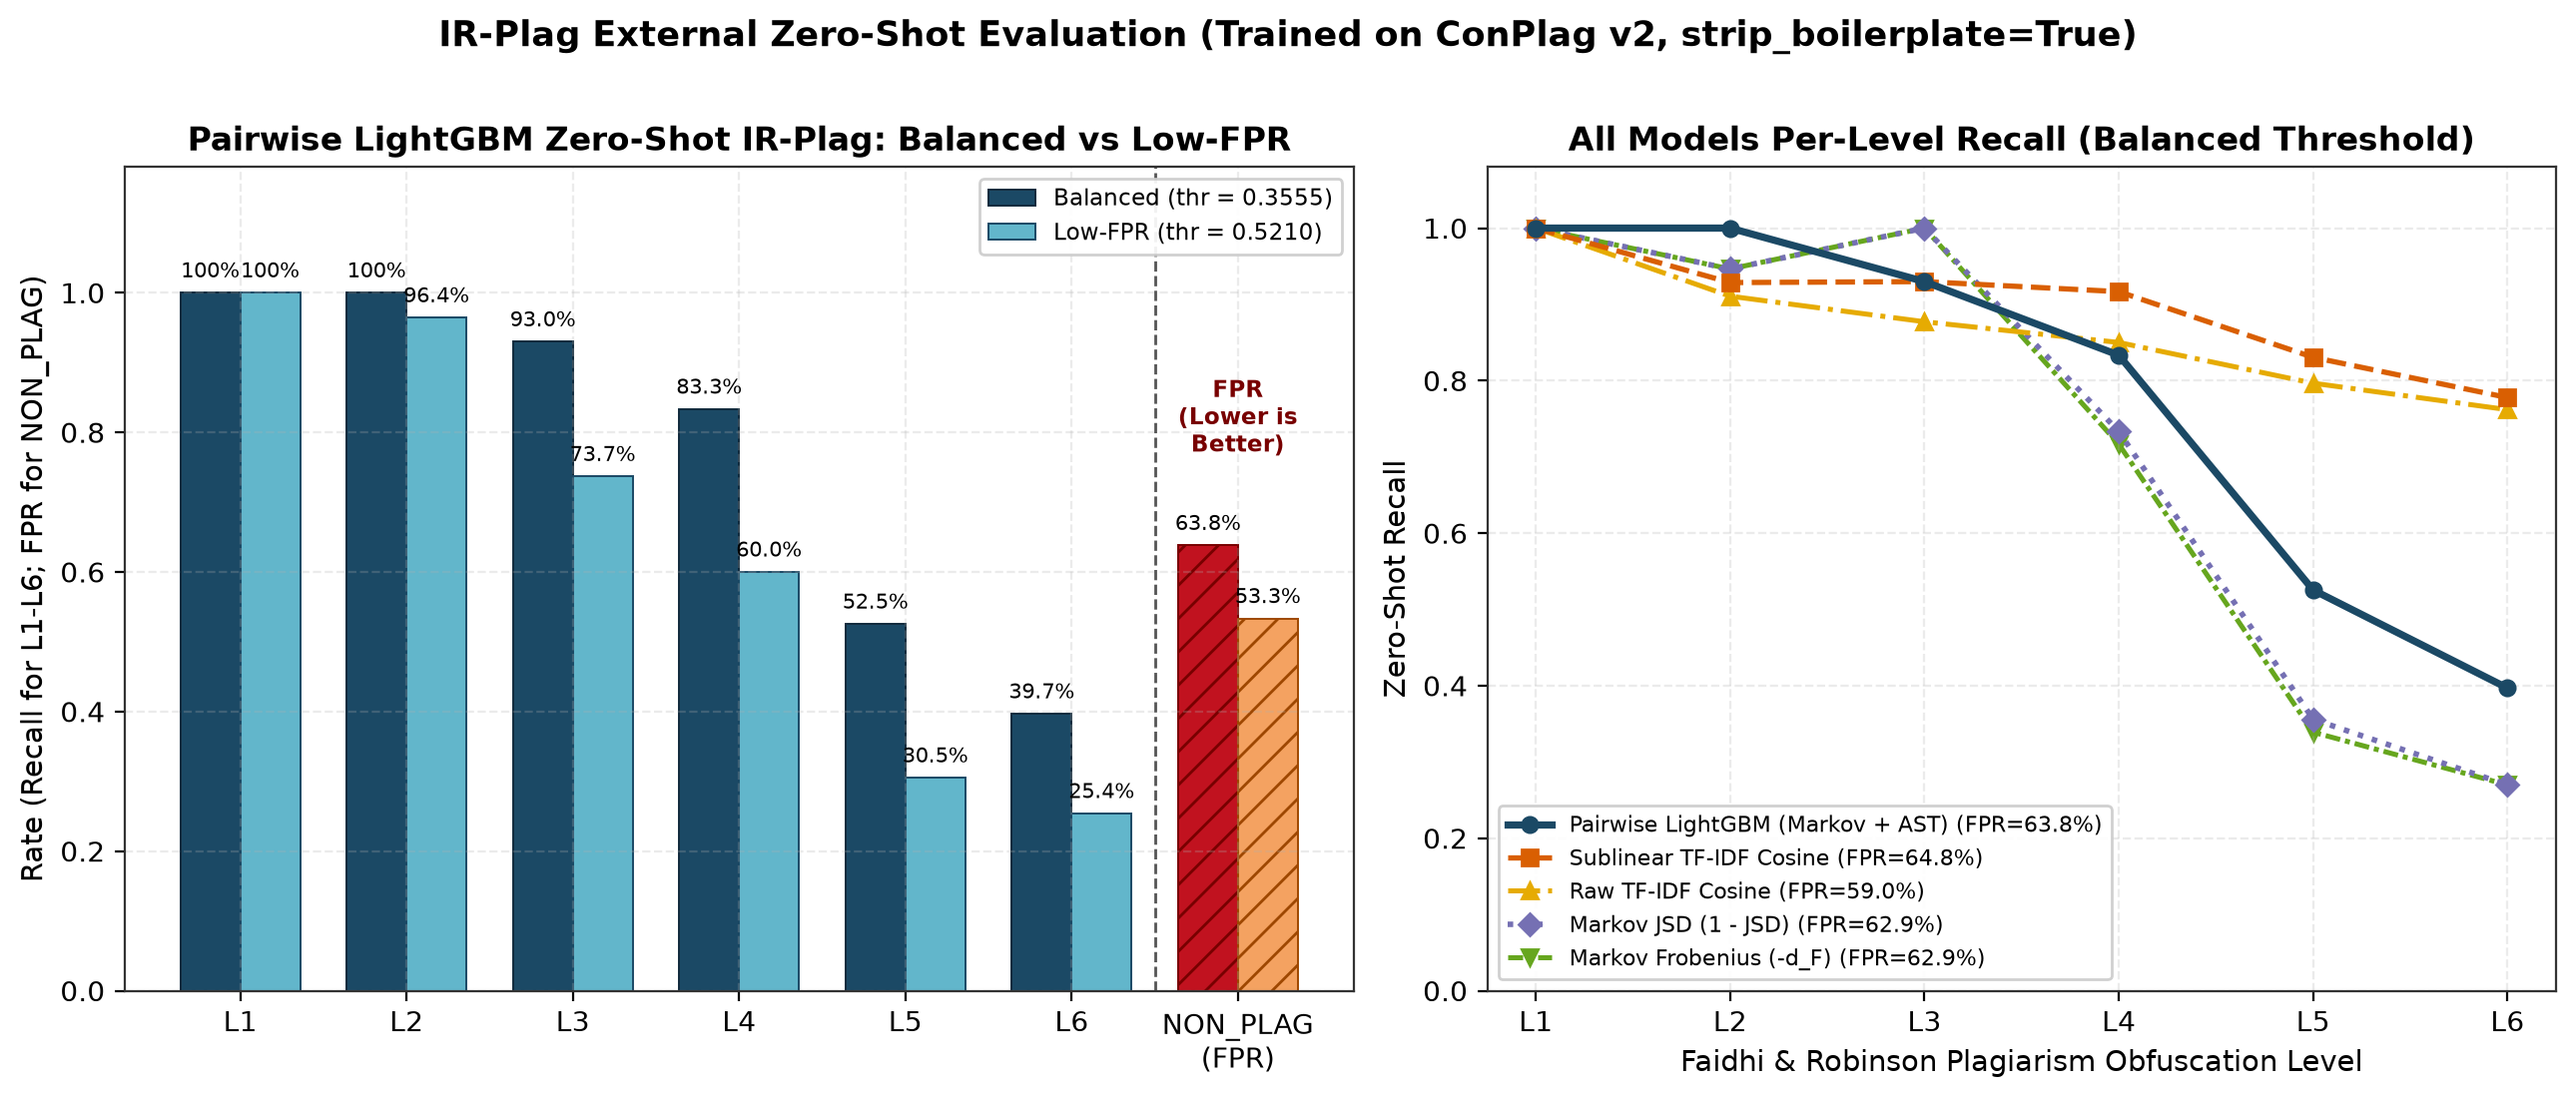
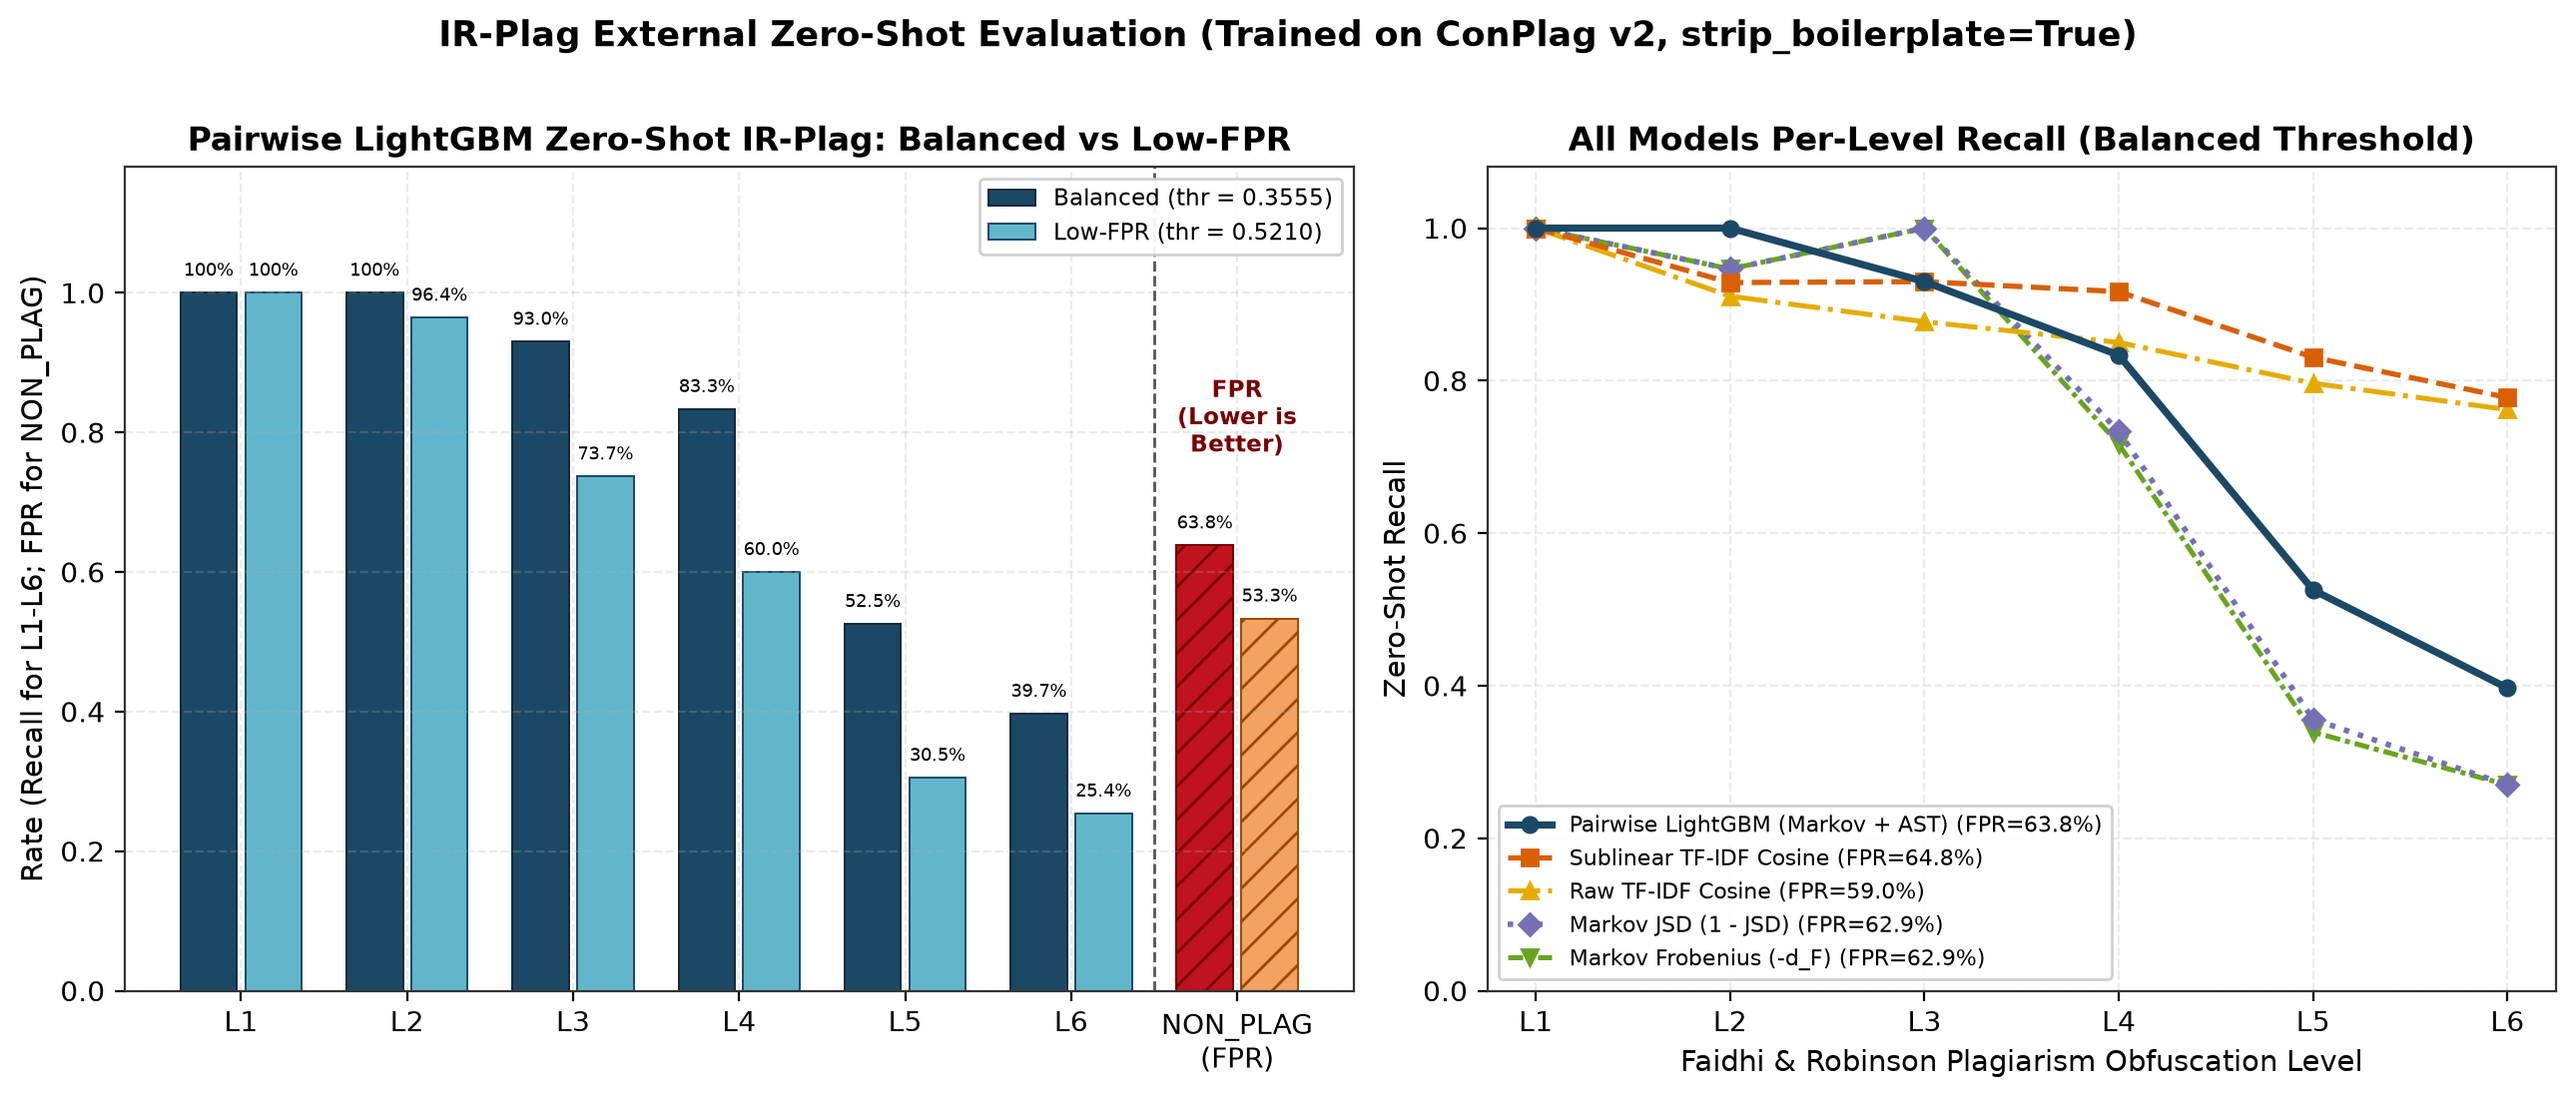
docs: add model scoreboard chart, fix IR Plag labels, and rewrite evaluation report

diff --git a/scripts/generate_plots.py b/scripts/generate_plots.py
@@ -263,13 +263,14 @@ def plot_ir_plag_levels(data: dict[str, Any], out_path: Path) -> None:
     low_series = low_vals + [low_fpr]
 
     x = np.arange(len(categories))
-    width = 0.36
+    width = 0.34
+    offset = width / 2 + 0.025
 
     bal_thr = lgbm["at_threshold"]["threshold"]
     low_thr = lgbm["at_threshold_low_fpr"]["threshold"]
 
     bars_bal = ax_left.bar(
-        x - width / 2,
+        x - offset,
         bal_series,
         width,
         label=f"Balanced (thr = {bal_thr:.4f})",
@@ -278,7 +279,7 @@ def plot_ir_plag_levels(data: dict[str, Any], out_path: Path) -> None:
         linewidth=0.7,
     )
     bars_low = ax_left.bar(
-        x + width / 2,
+        x + offset,
         low_series,
         width,
         label=f"Low-FPR (thr = {low_thr:.4f})",
@@ -312,11 +313,11 @@ def plot_ir_plag_levels(data: dict[str, Any], out_path: Path) -> None:
         label_txt = "100%" if h >= 0.9995 else f"{h * 100:.1f}%"
         ax_left.text(
             bar.get_x() + bar.get_width() / 2,
-            h + 0.015,
+            h + 0.018,
             label_txt,
             ha="center",
             va="bottom",
-            fontsize=7.4,
+            fontsize=6.6,
             rotation=0,
         )
 
@@ -559,8 +560,114 @@ def plot_confusion_matrices(data: dict[str, Any], out_path: Path) -> None:
     plt.close(fig)
 
 
+def plot_model_comparison(data: dict[str, Any], out_path: Path) -> None:
+    """Plot a ranked ConPlag v2 scoreboard comparing F1, Precision, Recall, AUC, and FPR."""
+    cv = data["conplag_v2_cv"]
+    ranked = sorted(
+        MODEL_ORDER,
+        key=lambda key: cv[key]["micro_oof"]["f1"],
+        reverse=True,
+    )
+    labels = [MODEL_META[k]["short"].replace("\n", " ") for k in ranked]
+    y = np.arange(len(ranked))
+
+    f1_vals = [cv[k]["micro_oof"]["f1"] for k in ranked]
+    prec_vals = [cv[k]["micro_oof"]["precision"] for k in ranked]
+    rec_vals = [cv[k]["micro_oof"]["recall"] for k in ranked]
+    auc_vals = [cv[k]["micro_oof"]["roc_auc"] for k in ranked]
+    fpr_vals = [cv[k]["micro_oof"]["fpr"] for k in ranked]
+
+    fig, (ax_left, ax_right) = plt.subplots(
+        1,
+        2,
+        figsize=(13.2, 5.4),
+        gridspec_kw={"width_ratios": [1.85, 1.0]},
+    )
+
+    bar_h = 0.19
+    series = [
+        ("ROC AUC", auc_vals, "#1b4965", -1.5 * bar_h),
+        ("F1 Score", f1_vals, "#2a9d8f", -0.5 * bar_h),
+        ("Precision", prec_vals, "#62b6cb", 0.5 * bar_h),
+        ("Recall", rec_vals, "#e9c46a", 1.5 * bar_h),
+    ]
+
+    for metric_name, vals, color, dy in series:
+        bars = ax_left.barh(
+            y + dy,
+            vals,
+            height=bar_h,
+            label=metric_name,
+            color=color,
+            edgecolor="#222222",
+            linewidth=0.45,
+        )
+        for bar, val in zip(bars, vals):
+            ax_left.text(
+                val + 0.012,
+                bar.get_y() + bar.get_height() / 2,
+                f"{val * 100:.1f}%",
+                va="center",
+                ha="left",
+                fontsize=7.3,
+            )
+
+    ax_left.set_yticks(y)
+    ax_left.set_yticklabels(labels, fontsize=9.5, fontweight="bold")
+    ax_left.invert_yaxis()
+    ax_left.set_xlim(0.0, 1.08)
+    ax_left.set_xlabel("Score (Higher is Better)")
+    ax_left.set_title("ConPlag v2 5-Fold CV: Detection Quality", pad=22)
+    ax_left.legend(
+        loc="lower center",
+        bbox_to_anchor=(0.5, 1.0),
+        fontsize=8.3,
+        ncol=4,
+        frameon=False,
+    )
+
+    fpr_colors = ["#2a9d8f" if v <= 0.10 else "#e76f51" for v in fpr_vals]
+    bars_fpr = ax_right.barh(
+        y,
+        fpr_vals,
+        height=0.52,
+        color=fpr_colors,
+        edgecolor="#222222",
+        linewidth=0.6,
+    )
+    for bar, val in zip(bars_fpr, fpr_vals):
+        ax_right.text(
+            val + 0.008,
+            bar.get_y() + bar.get_height() / 2,
+            f"{val * 100:.1f}%",
+            va="center",
+            ha="left",
+            fontsize=8.2,
+            fontweight="bold",
+        )
+
+    ax_right.axvline(0.05, color="#555555", linestyle="--", linewidth=1.0, label="5% Low-FPR Target")
+    ax_right.set_yticks(y)
+    ax_right.set_yticklabels([])
+    ax_right.invert_yaxis()
+    ax_right.set_xlim(0.0, 0.34)
+    ax_right.set_xlabel("False Positive Rate (Lower is Better)")
+    ax_right.set_title("False Positive Rate (F1-Optimal Point)", pad=22)
+    ax_right.legend(loc="upper right", fontsize=8.2)
+
+    fig.suptitle(
+        "ConPlag v2 Problem-Disjoint 5-Fold CV Model Scoreboard (Ranked by F1)",
+        fontsize=12.5,
+        fontweight="bold",
+        y=0.98,
+    )
+    fig.tight_layout(rect=(0.0, 0.0, 1.0, 0.94))
+    fig.savefig(out_path, dpi=DPI)
+    plt.close(fig)
+
+
 def main() -> None:
-    """Load metrics_summary.json and render all 5 evaluation figures."""
+    """Load metrics_summary.json and render all 6 evaluation figures."""
     if not METRICS_PATH.is_file():
         raise FileNotFoundError(f"Metrics file not found: {METRICS_PATH}")
 
@@ -571,6 +678,7 @@ def main() -> None:
     FIGURES_DIR.mkdir(parents=True, exist_ok=True)
 
     outputs = [
+        (FIGURES_DIR / "model_comparison.png", plot_model_comparison),
         (FIGURES_DIR / "roc_curves.png", plot_roc_curves),
         (FIGURES_DIR / "pr_curves.png", plot_pr_curves),
         (FIGURES_DIR / "ir_plag_levels.png", plot_ir_plag_levels),

diff --git a/docs/evaluation/metrics_tables.md b/docs/evaluation/metrics_tables.md
@@ -1,64 +1,103 @@
-# Evaluation Metrics Summary
+# Evaluation Results
 
-## 1. ConPlag v2 Cross Validation (`strip_boilerplate=True`)
+This report compares our calibrated Pairwise LightGBM model against 4 mathematical baselines on Java source code plagiarism benchmarks.
 
-This table shows results from 5 problem disjoint cross validation folds on ConPlag v2 with boilerplate stripped.
+## Quick Glossary
 
-| Model | Micro F1 | Micro Precision | Micro Recall | Micro ROC AUC | Micro FPR | Macro F1 (mean ± std) | Macro AUC (mean ± std) | Threshold | Low FPR Threshold |
-| :--- | ---: | ---: | ---: | ---: | ---: | ---: | ---: | ---: | ---: |
-| `raw_tfidf` | 0.6738 | 0.7302 | 0.6255 | 0.8287 | 0.0879 | 0.6658 ± 0.0907 | 0.8348 ± 0.0776 | 0.4664 | 0.5126 |
-| `sublinear_tfidf` | 0.7104 | 0.7568 | 0.6693 | 0.8773 | 0.0818 | 0.6864 ± 0.0878 | 0.8812 ± 0.0469 | 0.4339 | 0.4711 |
-| `markov_jsd` | 0.6167 | 0.5301 | 0.7371 | 0.8034 | 0.2485 | 0.5539 ± 0.0783 | 0.8093 ± 0.0578 | 0.9433 | 0.9914 |
-| `markov_frobenius` | 0.6040 | 0.5155 | 0.7291 | 0.7972 | 0.2606 | 0.5369 ± 0.0582 | 0.8029 ± 0.0552 | -0.9179 | -0.3160 |
-| `pairwise_lgbm` | 0.7598 | 0.7510 | 0.7689 | 0.9107 | 0.0970 | 0.7204 ± 0.1059 | 0.9229 ± 0.0472 | 0.3555 | 0.5210 |
+Models tested:
 
-## 2. ConPlag v2 to v1 Domain Shift and Boilerplate Ablation
+* **Pairwise LightGBM**: Trained gradient boosted classifier combining symmetric 12 state AST Markov features, JSD, Frobenius distance, and perplexity differences.
+* **Sublinear TF IDF**: Character n gram text similarity using log scaled term frequency (`1 + log(tf)`).
+* **Raw TF IDF**: Character n gram text similarity using unscaled term counts.
+* **Markov JSD**: Unsupervised similarity `1 - JSD(P_A, P_B)` between AST transition probability matrices.
+* **Markov Frobenius**: Unsupervised negative Euclidean distance `-||P_A - P_B||_F` between AST transition probability matrices.
 
-This table compares out of fold F1 on ConPlag v2 against zero shot F1 on ConPlag v1 under both boilerplate regimes.
+Metrics reported:
 
-| Model | Regime | v2 OOF F1 | v1 Zero Shot F1 | F1 Shift (v1 - v2) | Absolute F1 Shift | v1 ROC AUC | v1 FPR |
-| :--- | :--- | ---: | ---: | ---: | ---: | ---: | ---: |
-| `raw_tfidf` | `strip=True` | 0.6738 | 0.6308 | -0.0430 | 0.0430 | 0.8019 | 0.0439 |
-| `sublinear_tfidf` | `strip=True` | 0.7104 | 0.6618 | -0.0486 | 0.0486 | 0.8485 | 0.0364 |
-| `markov_jsd` | `strip=True` | 0.6167 | 0.5698 | -0.0469 | 0.0469 | 0.7398 | 0.1864 |
-| `markov_frobenius` | `strip=True` | 0.6040 | 0.5282 | -0.0758 | 0.0758 | 0.7310 | 0.2530 |
-| `pairwise_lgbm` | `strip=True` | 0.7598 | 0.7500 | -0.0098 | 0.0098 | 0.8223 | 0.0136 |
-| `raw_tfidf` | `strip=False` | 0.6538 | 0.5435 | -0.1103 | 0.1103 | 0.7628 | 0.2409 |
-| `sublinear_tfidf` | `strip=False` | 0.6813 | 0.5992 | -0.0821 | 0.0821 | 0.7899 | 0.1439 |
-| `markov_jsd` | `strip=False` | 0.6010 | 0.4992 | -0.1018 | 0.1018 | 0.6950 | 0.3121 |
-| `markov_frobenius` | `strip=False` | 0.5942 | 0.5117 | -0.0825 | 0.0825 | 0.7098 | 0.3424 |
-| `pairwise_lgbm` | `strip=False` | 0.7294 | 0.6683 | -0.0611 | 0.0611 | 0.8048 | 0.0303 |
+* **F1**: Harmonic mean of Precision and Recall (higher is better).
+* **Precision**: Share of flagged pairs that are truly plagiarized (higher means fewer false accusations).
+* **Recall**: Share of truly plagiarized pairs that the model catches (higher means fewer missed cases).
+* **ROC AUC**: Ranking quality across all thresholds from `0.5` (random) to `1.0` (perfect).
+* **FPR (False Positive Rate)**: Share of clean pairs mistakenly flagged as plagiarized (lower is better).
+* **OOF (Out of Fold)**: Predictions made on unseen problem folds during 5 fold problem disjoint cross validation.
 
-## 3. IR Plag Zero Shot Evaluation (`strip_boilerplate=True`)
+Datasets used:
 
-All models in this section train on ConPlag v2 with boilerplate stripped and evaluate zero shot on IR Plag.
+* **ConPlag v2**: 911 Java contest pairs across 21 problems with template boilerplate removed (primary training and CV dataset).
+* **ConPlag v1**: The same 911 pairs with raw competitive programming templates intact (boilerplate robustness test).
+* **IR Plag**: 460 held out introductory Java pairs spanning obfuscation levels `L1` (comments and whitespace) through `L6` (heavy loop and logic rewrites), plus `NON_PLAG` clean pairs.
 
-### Overall Metrics
+## 1. Overall Model Comparison (ConPlag v2)
 
-| Model | Operating Point | Threshold | Precision | Recall | F1 | ROC AUC | FPR |
-| :--- | :--- | ---: | ---: | ---: | ---: | ---: | ---: |
-| `raw_tfidf` | F1 optimal | 0.4664 | 0.8320 | 0.8648 | 0.8481 | 0.7223 | 0.5905 |
-| `raw_tfidf` | Low FPR (<=5% v2) | 0.5126 | 0.8324 | 0.8254 | 0.8289 | 0.7223 | 0.5619 |
-| `sublinear_tfidf` | F1 optimal | 0.4339 | 0.8238 | 0.8958 | 0.8583 | 0.6936 | 0.6476 |
-| `sublinear_tfidf` | Low FPR (<=5% v2) | 0.4711 | 0.8315 | 0.8479 | 0.8396 | 0.6936 | 0.5810 |
-| `markov_jsd` | F1 optimal | 0.9433 | 0.7925 | 0.7099 | 0.7489 | 0.6441 | 0.6286 |
-| `markov_jsd` | Low FPR (<=5% v2) | 0.9914 | 0.8319 | 0.5437 | 0.6576 | 0.6441 | 0.3714 |
-| `markov_frobenius` | F1 optimal | -0.9179 | 0.7911 | 0.7042 | 0.7452 | 0.6284 | 0.6286 |
-| `markov_frobenius` | Low FPR (<=5% v2) | -0.3160 | 0.8638 | 0.5183 | 0.6479 | 0.6284 | 0.2762 |
-| `pairwise_lgbm` | F1 optimal | 0.3555 | 0.8041 | 0.7746 | 0.7891 | 0.6318 | 0.6381 |
-| `pairwise_lgbm` | Low FPR (<=5% v2) | 0.5210 | 0.8014 | 0.6366 | 0.7096 | 0.6318 | 0.5333 |
+**Takeaway:** Pairwise LightGBM beats all 4 baselines on ConPlag v2 problem disjoint 5 fold CV (`76.0%` F1 and `91.1%` ROC AUC), cutting false positives by more than half compared to standalone Markov distance metrics (`9.7%` vs `24.9%` and `26.1%` FPR).
 
-### Per Level Recall (L1 to L6) and NON_PLAG FPR
+![ConPlag v2 Model Scoreboard](figures/model_comparison.png)
 
-| Model | Operating Point | L1 | L2 | L3 | L4 | L5 | L6 | NON_PLAG FPR |
+![ConPlag v2 ROC Curves](figures/roc_curves.png)
+
+![ConPlag v2 Precision Recall Curves](figures/pr_curves.png)
+
+| Model | F1 | Precision | Recall | ROC AUC | FPR | Macro F1 (mean +/- std) | Macro AUC (mean +/- std) |
+| :--- | ---: | ---: | ---: | ---: | ---: | ---: | ---: |
+| Pairwise LightGBM | 76.0% | 75.1% | 76.9% | 91.1% | 9.7% | 72.0% +/- 10.6% | 92.3% +/- 4.7% |
+| Sublinear TF IDF | 71.0% | 75.7% | 66.9% | 87.7% | 8.2% | 68.6% +/- 8.8% | 88.1% +/- 4.7% |
+| Raw TF IDF | 67.4% | 73.0% | 62.6% | 82.9% | 8.8% | 66.6% +/- 9.1% | 83.5% +/- 7.8% |
+| Markov JSD | 61.7% | 53.0% | 73.7% | 80.3% | 24.9% | 55.4% +/- 7.8% | 80.9% +/- 5.8% |
+| Markov Frobenius | 60.4% | 51.6% | 72.9% | 79.7% | 26.1% | 53.7% +/- 5.8% | 80.3% +/- 5.5% |
+
+## 2. Boilerplate Removal And Domain Shift (ConPlag v2 to v1)
+
+**Takeaway:** Removing imports and competitive I/O boilerplate cuts Pairwise LightGBM's cross domain F1 drop on raw ConPlag v1 files from `-6.11%` down to `-0.98%` while keeping false positives at `1.4%`.
+
+![Boilerplate Ablation](figures/boilerplate_ablation.png)
+
+| Model | Boilerplate Handling | ConPlag v2 F1 | ConPlag v1 F1 | F1 Shift (v1 - v2) | ConPlag v1 ROC AUC | ConPlag v1 FPR |
+| :--- | :--- | ---: | ---: | ---: | ---: | ---: |
+| Pairwise LightGBM | Stripped | 76.0% | 75.0% | -0.98% | 82.2% | 1.4% |
+| Sublinear TF IDF | Stripped | 71.0% | 66.2% | -4.86% | 84.9% | 3.6% |
+| Raw TF IDF | Stripped | 67.4% | 63.1% | -4.30% | 80.2% | 4.4% |
+| Markov JSD | Stripped | 61.7% | 57.0% | -4.69% | 74.0% | 18.6% |
+| Markov Frobenius | Stripped | 60.4% | 52.8% | -7.58% | 73.1% | 25.3% |
+| Pairwise LightGBM | Unstripped | 72.9% | 66.8% | -6.11% | 80.5% | 3.0% |
+| Sublinear TF IDF | Unstripped | 68.1% | 59.9% | -8.21% | 79.0% | 14.4% |
+| Raw TF IDF | Unstripped | 65.4% | 54.4% | -11.03% | 76.3% | 24.1% |
+| Markov JSD | Unstripped | 60.1% | 49.9% | -10.18% | 69.5% | 31.2% |
+| Markov Frobenius | Unstripped | 59.4% | 51.2% | -8.25% | 71.0% | 34.2% |
+
+## 3. Zero Shot Obfuscation Benchmark (IR Plag)
+
+**Takeaway:** Trained only on ConPlag v2, Pairwise LightGBM catches `100%` of `L1` and `L2` copies, `93.0%` of `L3`, and `83.3%` of `L4`, while dropping on heavy structural rewrites (`L5` `52.5%`, `L6` `39.7%`). All 5 models show high zero shot FPR (`53.3%` to `64.8%`) on short introductory Java exercises because independent student solutions to tiny prompts share nearly identical control flow.
+
+![IR Plag Zero Shot Levels](figures/ir_plag_levels.png)
+
+![Confusion Matrices Across Regimes](figures/confusion_matrices.png)
+
+### Overall IR Plag Zero Shot Metrics
+
+| Model | Operating Mode | Precision | Recall | F1 | ROC AUC | FPR |
+| :--- | :--- | ---: | ---: | ---: | ---: | ---: |
+| Pairwise LightGBM | Balanced | 80.4% | 77.5% | 78.9% | 63.2% | 63.8% |
+| Pairwise LightGBM | Low FPR | 80.1% | 63.7% | 71.0% | 63.2% | 53.3% |
+| Sublinear TF IDF | Balanced | 82.4% | 89.6% | 85.8% | 69.4% | 64.8% |
+| Sublinear TF IDF | Low FPR | 83.2% | 84.8% | 84.0% | 69.4% | 58.1% |
+| Raw TF IDF | Balanced | 83.2% | 86.5% | 84.8% | 72.2% | 59.0% |
+| Raw TF IDF | Low FPR | 83.2% | 82.5% | 82.9% | 72.2% | 56.2% |
+| Markov JSD | Balanced | 79.2% | 71.0% | 74.9% | 64.4% | 62.9% |
+| Markov JSD | Low FPR | 83.2% | 54.4% | 65.8% | 64.4% | 37.1% |
+| Markov Frobenius | Balanced | 79.1% | 70.4% | 74.5% | 62.8% | 62.9% |
+| Markov Frobenius | Low FPR | 86.4% | 51.8% | 64.8% | 62.8% | 27.6% |
+
+### Per Level Recall (`L1` to `L6`) And Clean Pair FPR
+
+| Model | Operating Mode | L1 | L2 | L3 | L4 | L5 | L6 | Clean FPR |
 | :--- | :--- | ---: | ---: | ---: | ---: | ---: | ---: | ---: |
-| `raw_tfidf` | F1 optimal | 1.0000 | 0.9107 | 0.8772 | 0.8500 | 0.7966 | 0.7619 | 0.5905 |
-| `raw_tfidf` | Low FPR | 1.0000 | 0.8750 | 0.8596 | 0.8000 | 0.7288 | 0.6984 | 0.5619 |
-| `sublinear_tfidf` | F1 optimal | 1.0000 | 0.9286 | 0.9298 | 0.9167 | 0.8305 | 0.7778 | 0.6476 |
-| `sublinear_tfidf` | Low FPR | 0.9667 | 0.8750 | 0.8596 | 0.8667 | 0.7627 | 0.7619 | 0.5810 |
-| `markov_jsd` | F1 optimal | 1.0000 | 0.9464 | 1.0000 | 0.7333 | 0.3559 | 0.2698 | 0.6286 |
-| `markov_jsd` | Low FPR | 1.0000 | 0.9107 | 0.8947 | 0.4167 | 0.0678 | 0.0317 | 0.3714 |
-| `markov_frobenius` | F1 optimal | 1.0000 | 0.9464 | 1.0000 | 0.7167 | 0.3390 | 0.2698 | 0.6286 |
-| `markov_frobenius` | Low FPR | 1.0000 | 0.8750 | 0.8070 | 0.4000 | 0.0508 | 0.0317 | 0.2762 |
-| `pairwise_lgbm` | F1 optimal | 1.0000 | 1.0000 | 0.9298 | 0.8333 | 0.5254 | 0.3968 | 0.6381 |
-| `pairwise_lgbm` | Low FPR | 1.0000 | 0.9643 | 0.7368 | 0.6000 | 0.3051 | 0.2540 | 0.5333 |
+| Pairwise LightGBM | Balanced | 100.0% | 100.0% | 93.0% | 83.3% | 52.5% | 39.7% | 63.8% |
+| Pairwise LightGBM | Low FPR | 100.0% | 96.4% | 73.7% | 60.0% | 30.5% | 25.4% | 53.3% |
+| Sublinear TF IDF | Balanced | 100.0% | 92.9% | 93.0% | 91.7% | 83.1% | 77.8% | 64.8% |
+| Sublinear TF IDF | Low FPR | 96.7% | 87.5% | 86.0% | 86.7% | 76.3% | 76.2% | 58.1% |
+| Raw TF IDF | Balanced | 100.0% | 91.1% | 87.7% | 85.0% | 79.7% | 76.2% | 59.0% |
+| Raw TF IDF | Low FPR | 100.0% | 87.5% | 86.0% | 80.0% | 72.9% | 69.8% | 56.2% |
+| Markov JSD | Balanced | 100.0% | 94.6% | 100.0% | 73.3% | 35.6% | 27.0% | 62.9% |
+| Markov JSD | Low FPR | 100.0% | 91.1% | 89.5% | 41.7% | 6.8% | 3.2% | 37.1% |
+| Markov Frobenius | Balanced | 100.0% | 94.6% | 100.0% | 71.7% | 33.9% | 27.0% | 62.9% |
+| Markov Frobenius | Low FPR | 100.0% | 87.5% | 80.7% | 40.0% | 5.1% | 3.2% | 27.6% |
